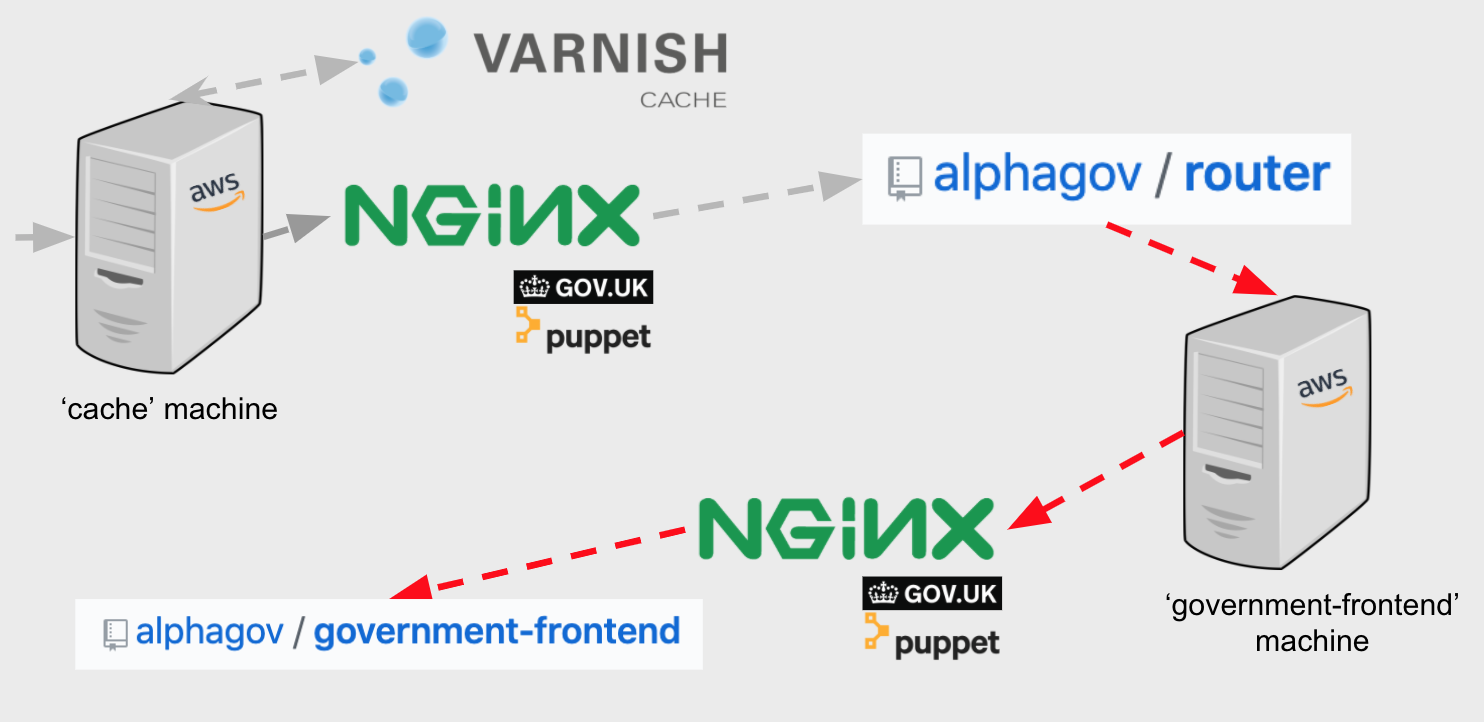
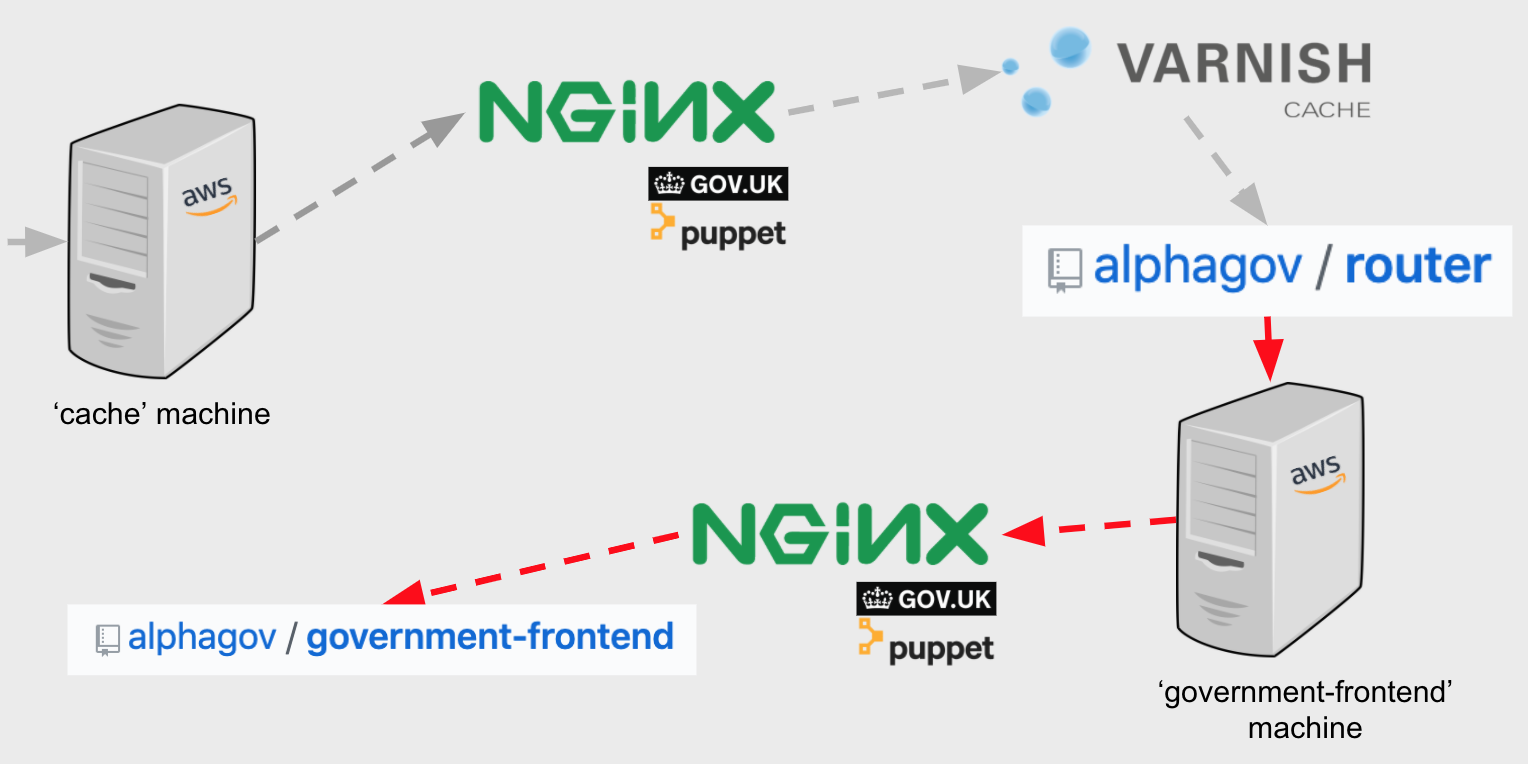
Addresses code review comments
- Capitalise application names when not referring to their repo
- Rewrite the routing section
- Rewrite the Puppet/Icinga relationship
- Link out to more of the dev docs
- Removes references to Redis (see https://github.com/alphagov/govuk-developer-docs/pull/1811#discussion_r399169627)

diff --git a/source/manual/architecture-deep-dive.html.md b/source/manual/architecture-deep-dive.html.md
@@ -9,7 +9,7 @@ last_reviewed_on: 2020-03-03
 review_in: 3 months
 ---
 
-We can cover most of the GOV.UK architecture by asking ourselves three questions:
+We can cover a lot of GOV.UK architecture by asking ourselves three questions:
 
 1. What happens when a user visits a page on GOV.UK?
 2. What happens when a publisher hits 'Publish'?
@@ -39,10 +39,12 @@ example `service.gov.uk`. The configuration for these is in the
 `www.gov.uk` is a CNAME record which ultimately points to `www-gov-uk.map.fastly.net.`
 The `fastly.net` domain name is hosted by special nameservers at the Fastly content
 delivery network, which aim to respond with the IP address of the Fastly cache node
-which is "closest" to the user. Read more about Fastly in the next section.
+which is "closest" to the user. Read more about Fastly in the next section, or
+[read more about gov.uk DNS][govuk-dns-docs].
 
 [govuk-dns repo]: https://github.com/alphagov/govuk-dns
 [govuk-dns-config repo]: https://github.com/alphagov/govuk-dns-config
+[govuk-dns-docs]: /manual/dns.html
 [Jisc]: https://www.jisc.ac.uk/domain-registry
 [Amazon Route53]: https://aws.amazon.com/route53/
 
@@ -56,14 +58,15 @@ Fastly uses [Varnish] for caching, with a default cache time of 1 hour. (Read
 ["Our content delivery network"][our-cdn] for more information). If Fastly
 doesn't have a page in its cache, it fetches the page from origin.
 
-Caches can be purged using the [cache-clearing-service], which tells Fastly to
-soft-purge (i.e. only remove the cached version once it has received the new
-version from origin). This cache clearing service is triggered automatically
-when pages are updated - more on that later.
+[Caches can be purged][purge-cache] using the [cache-clearing-service], which
+tells Fastly to soft-purge (i.e. only remove the cached version once it has
+received the new version from origin). This cache clearing service is
+triggered automatically when pages are updated - more on that later.
 
 [cache-clearing-service]: https://github.com/alphagov/cache-clearing-service
 [Fastly]: https://www.fastly.com/
 [our-cdn]: /manual/cdn.html
+[purge-cache]: /manual/purge-cache.html
 [Varnish]: https://varnish-cache.org/
 
 #### Failover
@@ -72,8 +75,9 @@ If a Fastly request to origin returns a 5xx response, Fastly will request
 content from the mirror, which is static HTML hosted in an S3 bucket on AWS.
 The contents of the mirror are updated daily via a [govuk-crawler-worker],
 which recursively crawls GOV.UK URLs from a message queue, visiting the pages
-and saving the output to disk.
+and saving the output to disk. Read more about [fallback to the static mirrors].
 
+[fallback to the static mirrors]: /manual/fall-back-to-mirror.html
 [govuk-crawler-worker]: https://github.com/alphagov/govuk_crawler_worker
 
 #### Routing on the CDN
@@ -84,10 +88,12 @@ uploaded directly to Fastly via [govuk-cdn-config].
 
 Other redirects that happen at the Fastly level include [bouncer]: a GOV.UK
 application responsible for redirecting traffic from old pre-GOV.UK websites.
-This is configured via [transition] and [transition-config].
+This is configured via [transition] and [transition-config]. Read
+[Transition architecture] for more detail.
 
 [bouncer]: https://github.com/alphagov/bouncer
 [govuk-cdn-config]: https://github.com/alphagov/govuk-cdn-config
+[Transition architecture]: /manual/transition-architecture.html
 [transition]: https://github.com/alphagov/transition
 [transition-config]: https://github.com/alphagov/transition-config
 
@@ -110,60 +116,69 @@ cover in more detail later.
 
 ![](images/nginx-routing.png)
 
-External requests are routed to a 'cache' machine, which uses Varnish for its
-caching. If Varnish has the route response in its cache, it returns that,
-otherwise it forwards the request to [Nginx], a web server running on the
-machine. Nginx is configured with govuk-puppet.
+External requests are routed to a 'cache' machine, where the request is
+received by an [Nginx] web server running on the machine. Nginx proxies some
+routes directly to other apps, such as [asset URLs] being
+[routed to asset-manager][asset-proxy] - this is configured with govuk-puppet.
+However, [Nginx proxies most requests to Varnish][nginx-varnish-proxy].
+If Varnish has the route response in its cache, that is returned, otherwise it
+proxies the request to [router], which is a GOV.UK maintained application
+running on the cache machines.
 
-Nginx proxies most requests to [router], which is a GOV.UK maintained
-application running on the cache machines. However, Nginx does proxy some
-routes directly to other apps, such as image URLs routing to asset-manager.
-
+[asset URLs]: https://github.com/alphagov/govuk-puppet/blob/881cbcdef477332948e92b88ecd04a830fd02337/hieradata/common.yaml#L1176-L1178
+[asset-proxy]: https://github.com/alphagov/govuk-puppet/blob/a114dd5f80d789be368573545dc56fe388c0ac58/modules/router/templates/assets_origin.conf.erb#L53-L67
 [govuk-aws]: https://github.com/alphagov/govuk-aws
 [Nginx]: https://www.nginx.com/
+[nginx-varnish-proxy]: https://github.com/alphagov/govuk-puppet/blob/66b2f6c6d8e572d0b4cc8d6d47338c050a1c46a2/modules/router/templates/router_include.conf.erb#L78
 [router]: https://github.com/alphagov/router
 [Terraform]: https://www.terraform.io/
 
 #### Routing via 'router'
 
-'router' is a reverse proxy app written in Go. It stores all known routes
-in memory using a [prefix trie]. The routes are loaded into the trie from
-[redis] at startup. Matched routes are proxied through to the relevant
-rendering app based on the `backend_id` of the route, which is derived from
-the `rendering_app` field in the corresponding content item in the content
-store (which we'll cover later). For example, if the route has a `backend_id`
-of `frontend`, it will forward the request to the [frontend] application.
+'Router' is a reverse proxy app written in Go. It is designed to be fast,
+storing all known routes in memory using a [prefix trie], which it loads
+from a MongoDB database of all known routes.
 
-When routes are deleted, they're marked as `gone` in router, and router
-returns a 410 Gone response. When routes are changed (which can happen when a
-document's title is changed, affecting its slug), it is marked as `redirect`
-in router, serving a 301 Moved Permanently response. It's worth noting the
-[short-url-manager] app, whose sole purpose is to allow the creation of short,
-memorable URLs that redirect to longer URLs, often as part of a media campaign.
-It publishes routes to the content store (via the publishing API, which we'll
-also cover later) like other apps publish pages.
+The MongoDB database is written to via [router-api] whenever a route is
+added or changed: the Content Store (which we'll cover later) talks to
+Router API [directly][register-route] to do this. Router API then
+[sends POST requests to every instance of Router][router-api-updating-router],
+whereupon each [Router then reloads all routes][router-reloading-routes]
+from MongoDB.
 
-Routes are added and updated in real time via [router-api]. The content
-store talks to router-api [directly][register-route] whenever there is a new
-piece of content router needs to know about. router-api stores this information
-in its own database and then sends these routes to router.
+Routes have different handlers. Routes marked as `gone` return a 410 Gone
+response. Routes marked as `redirect` serve a 301 Moved Permanently
+response. These handlers are useful for when content is deleted or
+superseded. Most publishing apps provide a way of deleting or redirecting
+their content, but it's worth noting the [short-url-manager] app, whose
+sole purpose is to create special redirect routes to allow the creation
+of short, memorable URLs that redirect to longer URLs, often as part of a
+media campaign.
+
+Routes with a `backend` handler are routed to the relevant rendering app,
+based on the `backend_id` of the route, which is derived from the
+`rendering_app` field in the corresponding content item in the Content
+Store - we'll cover this later. For example, if the route has a
+`backend_id` of `frontend`, it will forward the request to the [frontend]
+application.
 
 [frontend]: https://github.com/alphagov/frontend
 [prefix trie]: https://en.wikipedia.org/wiki/Trie
-[redis]: https://redis.io/
 [register-route]: https://github.com/alphagov/content-store/blob/08f02f990e621c9d2fd473e12a70a6805ddd8dcb/app/models/route_set.rb#L58-L82
 [router-api]: https://github.com/alphagov/router-api
+[router-api-updating-router]: https://github.com/alphagov/router-api/blob/master/lib/router_reloader.rb#L45-L48
+[router-reloading-routes]: https://github.com/alphagov/router/blob/1e1d5c1563136ba340e1fba838d9b52e283ed815/router_api.go#L26-L42
 [short-url-manager]: https://github.com/alphagov/short-url-manager
 
 ### Rendering
 
-Once the router has forwarded the request to the right rendering app, the
+Once Router has forwarded the request to the right rendering app, the
 rendering app itself has to do some routing. Most GOV.UK front-end apps are
 built in [Rails], which means typically there is a `routes.rb` file that
 maps the route to a controller. The controller takes the URL path and any
 parameters and decides how to render the page.
 
-Many pages require the application to make a request to the content store
+Many pages require the application to make a request to the Content Store
 to retrieve the corresponding content. Some pages are associated with
 collections of content, rather than simply one content item. If it is a
 static collection, such as a homepage which references several news stories,
@@ -181,7 +196,7 @@ Whilst views can be any arbitrary HTML, GOV.UK pages are typically constructed
 from components defined in [govuk_publishing_components], set in a standard
 page template (header, footer, JavaScript and CSS) defined in [static].
 
-Static JS/CSS is delivered over https://assets.publishing.service.gov.uk.
+Static JS/CSS is delivered over <https://assets.publishing.service.gov.uk>.
 Custom assets, such as images, are delivered over the same domain and uploaded
 by content designers via [asset-manager]. Under the hood, all of these assets
 live in an [AWS S3 bucket] (read ["Assets: how they work"]).
@@ -225,7 +240,7 @@ of 'router'. You can swap `www` for `draft-origin` to view the draft stack at
 origin. The draft stack is not IP-restricted, as we need to be able to share
 links to be reviewed ("2i'd") or fact-checked by non-Government departments.
 It is, however, only visible to users who have been verified through
-authenticating-proxy, by signing into [signon] (an authentication and
+Authenticating Proxy, by signing into [signon] (an authentication and
 authorisation portal) or by providing a valid `auth_bypass_id` (as a URI
 parameter or session cookie). Read more about previews in ["How the draft stack works"].
 
@@ -245,45 +260,47 @@ content.
 ![](images/publishing-api-content-store.png)
 
 At this point it's probably worth summarising what "content" is. Almost every
-piece of content on GOV.UK lives in a database called the "[content store]",
-which stores only the latest "edition" of that content. Internally the content
-is referred to as a "document", even if it is not itself a document.
+piece of content on GOV.UK lives in a database called "[content-store]", which
+stores only the latest "edition" of that content. Internally the content is
+referred to as a "document", even if it is not itself a document. Content is
+retrieved via the "[Content API]", which lives in the content-store repo.
 
-Content is published to the content store via the [publishing API], which
+Content is published to the Content Store via the [Publishing API], which
 stores all of the editions of the document, and performs validation checks
-whenever it receives a new edition. Every piece of content has a `document_type`
+whenever it receives a new edition. Every piece of content has a `schema_name`
 corresponding to a particular JSON schema defined in [govuk-content-schemas].
 Most backend apps have their own databases modelling documents in their own
-way; at the point of sending the document to publishing API, they transform the
+way; at the point of sending the document to Publishing API, they transform the
 document to a JSON payload conforming to the appropriate schema.
 
 ![](images/content-store-draft-live.png)
 
-When a new edition is sent to publishing API, it is automatically published to
-the draft content store, replacing whatever contents existed for that document
+When a new edition is sent to Publishing API, it is automatically published to
+the draft Content Store, replacing whatever contents existed for that document
 beforehand. An edition must be explicitly published for it to go to the live
-content store, where it becomes visible to the outside world.
+Content Store, where it becomes visible to the outside world.
 
 [Link expansion], mentioned in [Rendering][rendering] is the process of
 joining related content items (such as the title and details of a document's
 parent, used for navigational breadcrumbs) into a single JSON payload, so that
 rendering apps don't need to handle the complexity of pulling all of that data
-together manually. Link expansion happens in publishing API at the point of
-sending an edition downstream to the content store.
+together manually. Link expansion happens in Publishing API at the point of
+sending an edition downstream to the Content Store.
 
-[content store]: /apis/content-store.html
+[Content API]: /apis/content-store.html
+[content-store]: https://github.com/alphagov/content-store
 [govuk-content-schemas]: https://github.com/alphagov/govuk-content-schemas
 [Link expansion]: https://github.com/alphagov/publishing-api/blob/master/doc/link-expansion.md
-[publishing API]: https://github.com/alphagov/publishing-api
+[Publishing API]: https://github.com/alphagov/publishing-api
 [rendering]: #rendering
 
 ### Downstream Sidekiq background processing triggered by publishing
 
-The publishing API could update the content store via the content API directly,
-but the scale of GOV.UK means we're safer offloading that call to a background
-process to be processed when resources become available. In addition, when we
-publish a new edition, we often want to trigger some other actions as a result.
-For example, we want to send an email to anyone subscribed to that content.
+The Publishing API could update the Content Store directly, but the scale of
+GOV.UK means we're safer offloading that call to a background process to be
+processed when resources become available. In addition, when we publish a new
+edition, we often want to trigger some other actions as a result. For example,
+we want to send an email to anyone subscribed to that content.
 
 We use [Sidekiq] to manage the background processing. When each Sidekiq
 process is evaluated, a message is put onto a [RabbitMQ] queue (which runs
@@ -297,8 +314,8 @@ response, such as:
   exceptions to this are `travel-advice` & `specialist-publisher`, which
   communicate directly with email-alert-api to ensure emails go out immediately)
 
-[Content store registers the route][content-store-router-api] for the content
-item via router-api. This happens inside the Sidekiq job directly, rather than
+[Content Store registers the route][content-store-router-api] for the content
+item via Router API. This happens inside the Sidekiq job directly, rather than
 in a downstream process.
 
 [content-store-router-api]: https://github.com/alphagov/content-store/blob/dd79a03d74f130650bc97d1c84aae557ccea58d3/app/models/content_item.rb#L33
@@ -329,7 +346,7 @@ The process for finding the content items affected by a content change is
 known as [dependency resolution]. Content items can be associated with
 other content items in a number of ways. For example, you may provide an
 [array of organisation IDs][schema-organisations-example] in your payload
-when sending to publishing API, to indicate that those organisations are
+when sending to Publishing API, to indicate that those organisations are
 responsible for the content (this is stored on the content item in content
 store as `links.organisations`).
 
@@ -345,9 +362,9 @@ tag content independently using [content-tagger].
 
 ### Summary
 
-The publishing app uses the publishing API to create and synchronise a new
+The publishing app uses the Publishing API to create and synchronise a new
 edition of a document, which consolidates related content items into it prior to
-sending to content store. All affected content items are added to a publishing
+sending to Content Store. All affected content items are added to a publishing
 queue, which triggers downstream actions such as cache clearing and email alerts.
 
 ## What happens when a developer deploys a change to an application?
@@ -365,8 +382,8 @@ Data is copied from Production to Staging - and from Staging to Integration - ev
 24 hours via [automated Jenkins jobs][copy-data-to-staging]. This way our
 environments are always roughly in sync, although it's worth noting that email
 addresses are anonymised and access-limited documents are obfuscated before data is
-copied. The data copying is partly configured in [env-sync-and-backup], however
-we're gradually [configuring this in govuk-puppet][govuk-env-sync] in the move to AWS.
+copied. The data copying is mostly [configured in govuk-puppet][govuk-env-sync],
+although apps not hosted on AWS are configured in [env-sync-and-backup].
 
 [copy-data-to-staging]: https://deploy.publishing.service.gov.uk/job/Copy_Data_to_Staging/
 [env-sync-and-backup]: https://github.com/alphagov/env-sync-and-backup/
@@ -389,10 +406,10 @@ A developer must manually trigger a deployment to Staging and Production through
 the [release] app. This uses the same Jenkins/Capistrano pipeline as for
 Integration, but on the Staging and Production Jenkins environments respectively.
 
-Some apps require extra care when deploying. 'static', for example, requires a
-30 minute wait between environment deploys. This is because static is consumed
+Some apps require extra care when deploying. Static, for example, requires a
+30 minute wait between environment deploys. This is because Static is consumed
 directly by GOV.UK applications at runtime - not a gem version like a normal
-dependency - and responses from static are cached for half an hour, so problems
+dependency - and responses from Static are cached for half an hour, so problems
 may not be visible until after this period. There are instructions in the release
 app UI for this.
 
@@ -407,48 +424,54 @@ app UI for this.
 ![](images/puppet.png)
 
 As discussed in the routing section, we have different 'classes' of machines
-running in the cloud; to recap, the "cache" machines run the "router"
+running in the cloud; to recap, the "cache" machines run the Router
 application. These classes are configured in [govuk-puppet], which uses
-[puppet] under the hood: tooling which configures resources such as files
+[Puppet] under the hood: tooling which configures resources such as files
 and processes.
 
 Puppet runs in a master/agent setup. There is a single "puppetmaster" running
 on its own class of machine, whereas the agents run on all the other machines
-(irrespective of class). Each puppet agent is responsible for running
-[health check] tests against the GOV.UK applications running on the node,
-and for ensuring the presence of certain files and processes. The puppet
-master is in charge of keeping all of the puppet agents in sync with itself.
+(irrespective of class). The Puppet master is in charge of keeping all of the
+Puppet agents in sync with itself.
 
 [Icinga] alerts us to problems with our machines and apps. There is a wide
-variety of different alerts, all of which are configured in Puppet. For
-monitoring, 'filebeat' is used to send logs to [Logit], and 'statsd' exports
-most monitoring metrics, which can be viewed in [Grafana]. Read more about
-[tooling for monitoring][tools].
+variety of different alerts, all of which are configured in Puppet. Each
+puppet agent is responsible for [configuring Icinga alerts] using the
+[Icinga Puppet module]. Alerts might be triggered by an application's
+[health check endpoint] being unavailable, or by a machine having
+[low available disk space], or a number of other reasons.
+
+For monitoring, 'filebeat' is used to send logs to [Logit], and 'statsd'
+exports most monitoring metrics, which can be viewed in [Grafana]. Read more
+about [tooling for monitoring][tools].
 
 If an app release contains a major change such as a renamed environment
 variable, then it will require an application restart, which would bring the
 application offline on that machine. The load balancer would begin serving
 traffic from different nodes of the same class: for this reason it is
 important that all machines are updated at different times. Therefore, each
-instance [runs puppet every half hour][puppet-cronjob], with the puppet
+instance [runs puppet every half hour][puppet-cronjob], with the Puppet
 agents configured to run after the puppetmaster at randomised times.
 
 When [deploying Puppet], the latest versions of govuk-puppet and
-govuk-secrets are copied to the puppetmaster. On each puppet run, the puppet
+govuk-secrets are copied to the puppetmaster. On each Puppet run, the Puppet
 agent checks for differences between what is sees and what the puppetmaster
 says should be there to see if they have diverged ("configuration drift")
 and whether they should reset themselves against the master. Only after all
-the puppet agents have updated can you be confident that your puppet change
-hasn't broken anything, which is why you must wait 30 minutes between puppet
+the Puppet agents have updated can you be confident that your Puppet change
+hasn't broken anything, which is why you must wait 30 minutes between Puppet
 deploys.
 
+[configuring Icinga alerts]: https://github.com/alphagov/govuk-puppet/blob/0b20c7efe7e0c3855d4821e55a914ab577d3b84e/modules/govuk_containers/manifests/app.pp
 [deploying Puppet]: /manual/deploy-puppet.html
+[health check endpoint]: https://github.com/alphagov/content-publisher/blob/5b968f1bbfd4fa7e577ea535bb2dc23fcf0c99b8/spec/requests/healthcheck_spec.rb
 [govuk-puppet]: https://github.com/alphagov/govuk-puppet
 [Grafana]: /manual/grafana.html
-[health check]: https://github.com/alphagov/govuk-puppet/blob/0b20c7efe7e0c3855d4821e55a914ab577d3b84e/modules/govuk_containers/manifests/app.pp
 [Icinga]: /manual/icinga.html
+[Icinga Puppet module]: https://github.com/alphagov/govuk-puppet/blob/master/modules/icinga/manifests/check.pp
 [Logit]: /manual/logit.html
-[puppet]: https://puppet.com/open-source/#osp
+[low available disk space]: https://github.com/alphagov/govuk-puppet/blob/f12b696a24a7bd7ab0bfbdd0a35a1acc921ff168/modules/icinga/manifests/client/checks.pp#L37-L43
+[Puppet]: https://puppet.com/open-source/#osp
 [puppet-cronjob]: https://github.com/alphagov/govuk-puppet/blob/9dda11ec245e882ed879cdb7abb7ffe70df015ce/modules/puppet/manifests/cronjob.pp
 [tools]: /manual/tools.html
 
